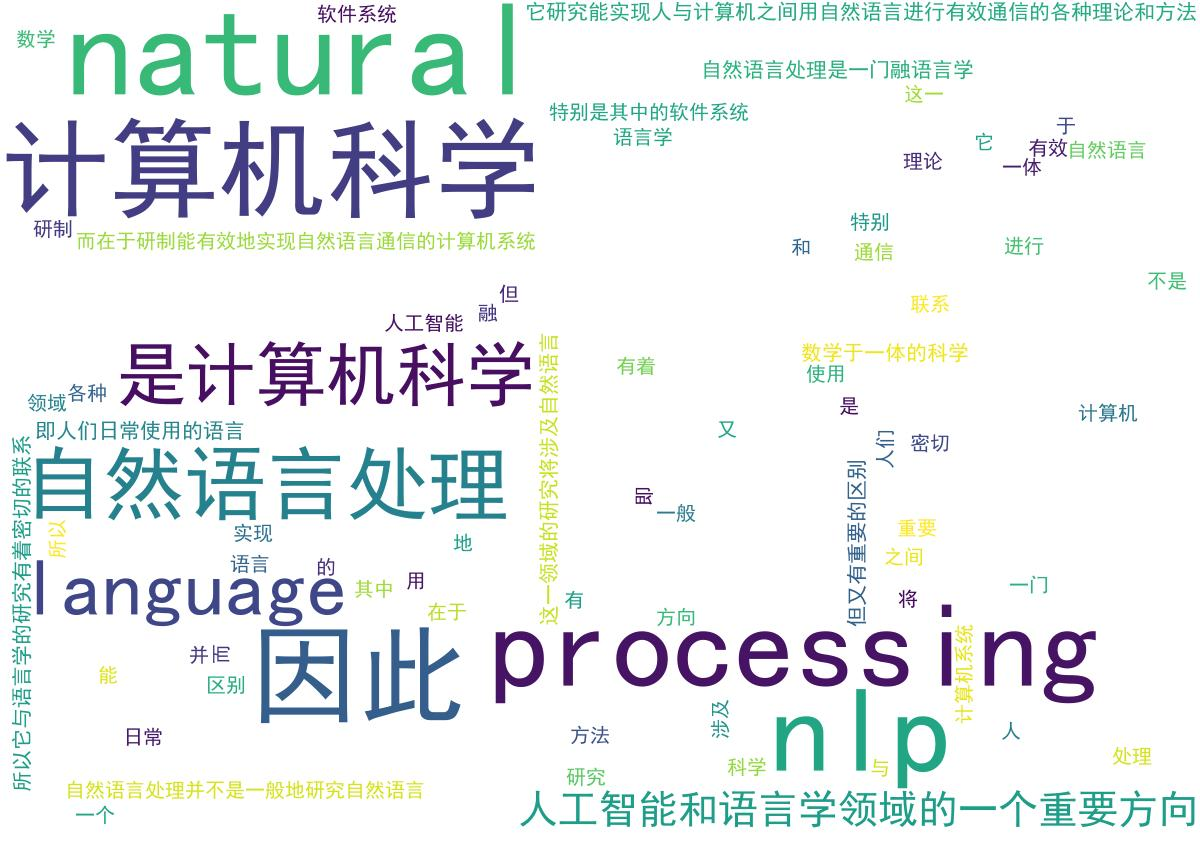
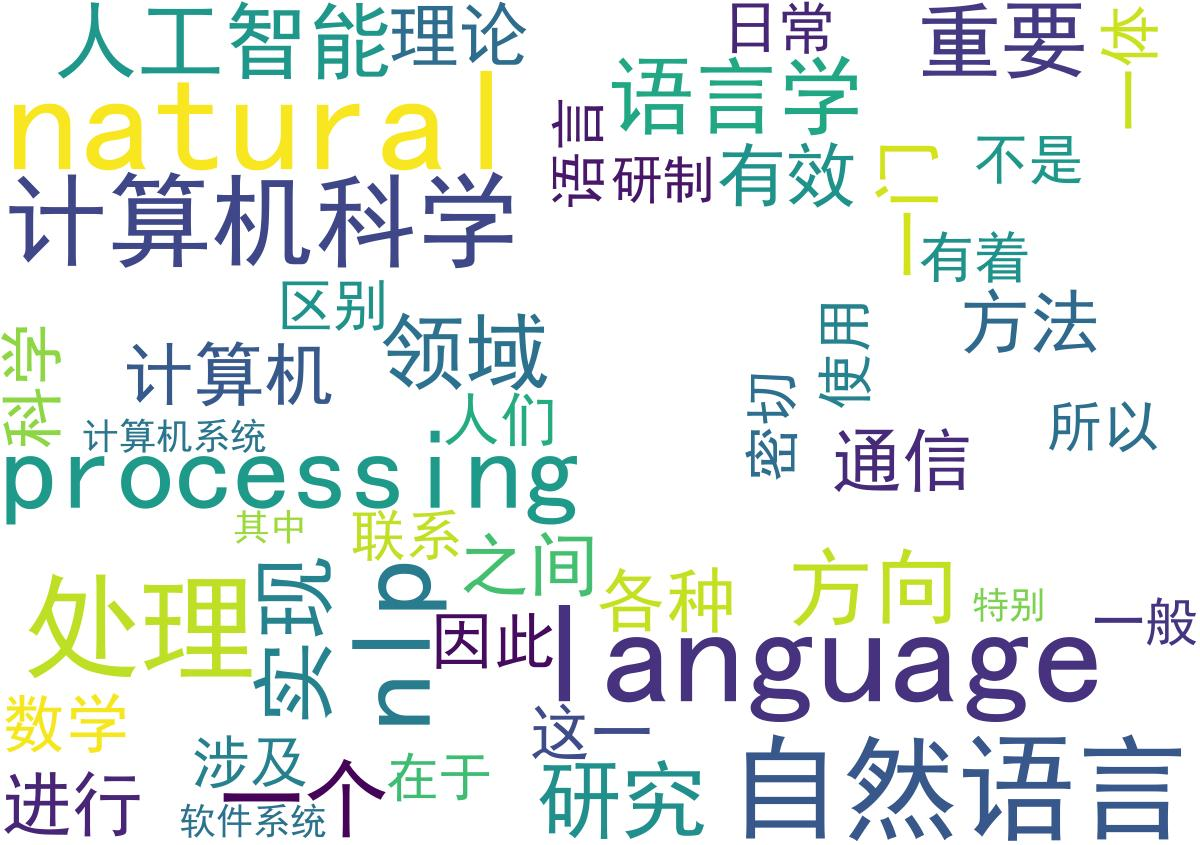
feat: nltk jieba deal with english and chinese words

diff --git a/nltk_jieba_test.py b/nltk_jieba_test.py
@@ -7,12 +7,17 @@ from nltk.corpus import stopwords
 import string
 from wordcloud import WordCloud
 import matplotlib.pyplot as plt
+import matplotlib
 import numpy as np
 from PIL import Image
+import re
 
 # 确保你已经下载了nltk的必要数据
 nltk.download('punkt')
 nltk.download('stopwords')
+
+# 设置matplotlib后台执行
+matplotlib.use('agg')
 
 # 示例中英文文章
 text = """
@@ -22,15 +27,25 @@ text = """
 自然语言处理并不是一般地研究自然语言，而在于研制能有效地实现自然语言通信的计算机系统，特别是其中的软件系统。
 """
 
+# 分离英文和中文部分（简单处理）
+english_text = re.sub(r'[^\x00-\x7F]+', ' ', text)
+chinese_text = re.sub(r'[^\u4e00-\u9fa5]+', ' ', text)
+
+
 # 英文分词
-words_en = word_tokenize(text)
+words_en = word_tokenize(english_text)
 
 # 初始化jieba
 jieba.load_userdict('data/dict.txt')
 anls.set_stop_words('data/stop_words.txt')
 
 # 中文分词
-words_zh = jieba.lcut(text)
+words_zh = jieba.lcut(chinese_text, False)
+words_zh = [
+  word
+  for word in words_zh
+  if word in jieba.dt.FREQ and len(word) > 1 and not word.isnumeric()
+]
 
 # 合并中英文分词结果
 words = words_en + words_zh
@@ -63,7 +78,7 @@ wordcloud = WordCloud(
 plt.figure(figsize=(10, 5))
 plt.imshow(wordcloud, interpolation='bilinear')
 plt.axis('off')
-plt.show()
+# plt.show()
 
 # 保存词云
 wordcloud.to_file('data/nltk_jieba_word_cloud.jpg')

diff --git a/xueqiu.py b/xueqiu.py
@@ -13,7 +13,7 @@ def get_words():
   base_url = 'https://xueqiu.com/v4/statuses/user_timeline.json?page='
   header = {
     'User-Agent': 'Mozilla/5.0 (Macintosh; Intel Mac OS X 10_15_7) AppleWebKit/537.36 (KHTML, like Gecko) Chrome/124.0.0.0 Safari/537.36',
-    'cookie': 'xq_a_token=9340aab2bf1fc4365f85394da9debf5962df2db7'
+    'cookie': 'xq_a_token=9340aab2bf1fc4365f85394da9debf5962df2db7',
   }
   for i in range(100):
     url = base_url + str(i + 1) + '&user_id=5124430882'

diff --git a/nltk_test.py b/nltk_test.py
@@ -34,7 +34,9 @@ words = [word for word in words if word not in stop_words]
 word_counts = Counter(words)
 
 # 生成词云
-wordcloud = WordCloud(width=800, height=400, background_color='white').generate_from_frequencies(word_counts)
+wordcloud = WordCloud(
+  width=800, height=400, background_color='white'
+).generate_from_frequencies(word_counts)
 
 # 显示词云
 plt.figure(figsize=(10, 5))
